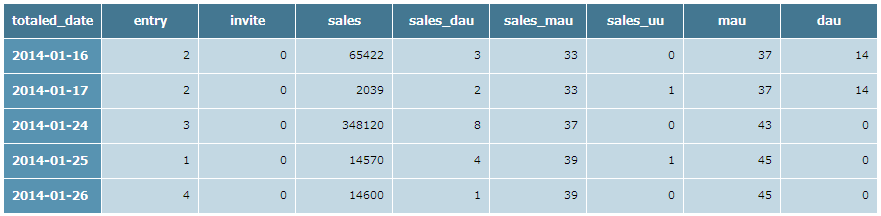
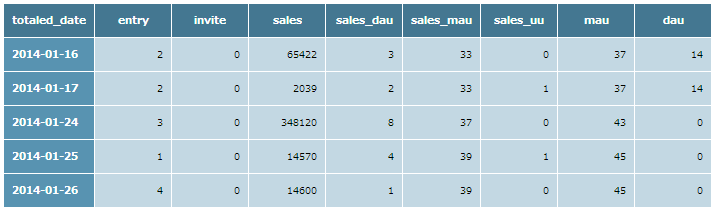
readme
readme

diff --git a/css/tableMagic.css b/css/tableMagic.css
@@ -1,6 +1,6 @@
 .my-table {font-family:'ヒラギノ角ゴ Pro W3','Hiragino Kaku Gothic Pro','メイリオ',Meiryo,'ＭＳ Ｐゴシック',sans-serif;}
 table.my-table {
-  font-size: 12px;
+  font-size: 11px;
   /*margin: 0 auto;*/
   border-collapse: separate;
   border-spacing: 0px 1px;
@@ -17,7 +17,7 @@ table.my-table td {
   padding: 8px;
   vertical-align: middle;
   text-align: right;
-  font-size: 11px;
+  font-size: 9px;
   border-left: #fff 1px solid;
   background: #C3D8E3;
 }
@@ -37,8 +37,8 @@ table.my-table tr.trHeader th {
 }
 
 table.my-table .tdHeader {
-  width: 80px;
+  width: 60px;
 }
 table.my-table td {
-  width: 80px;
+  width: 60px;
 }
